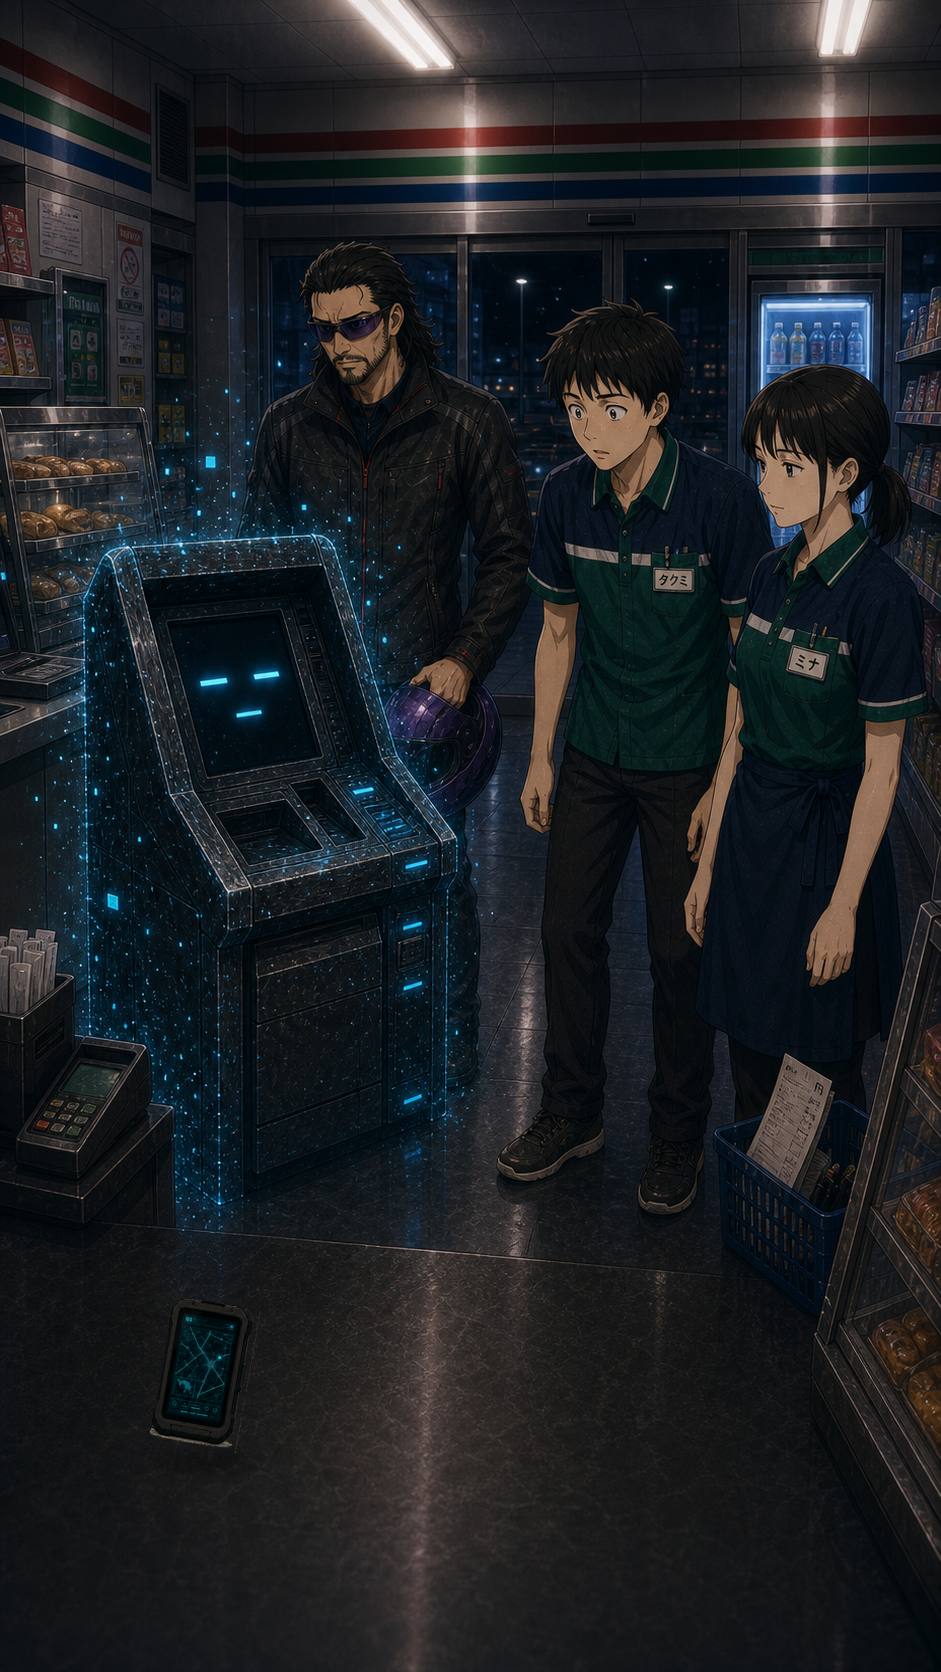
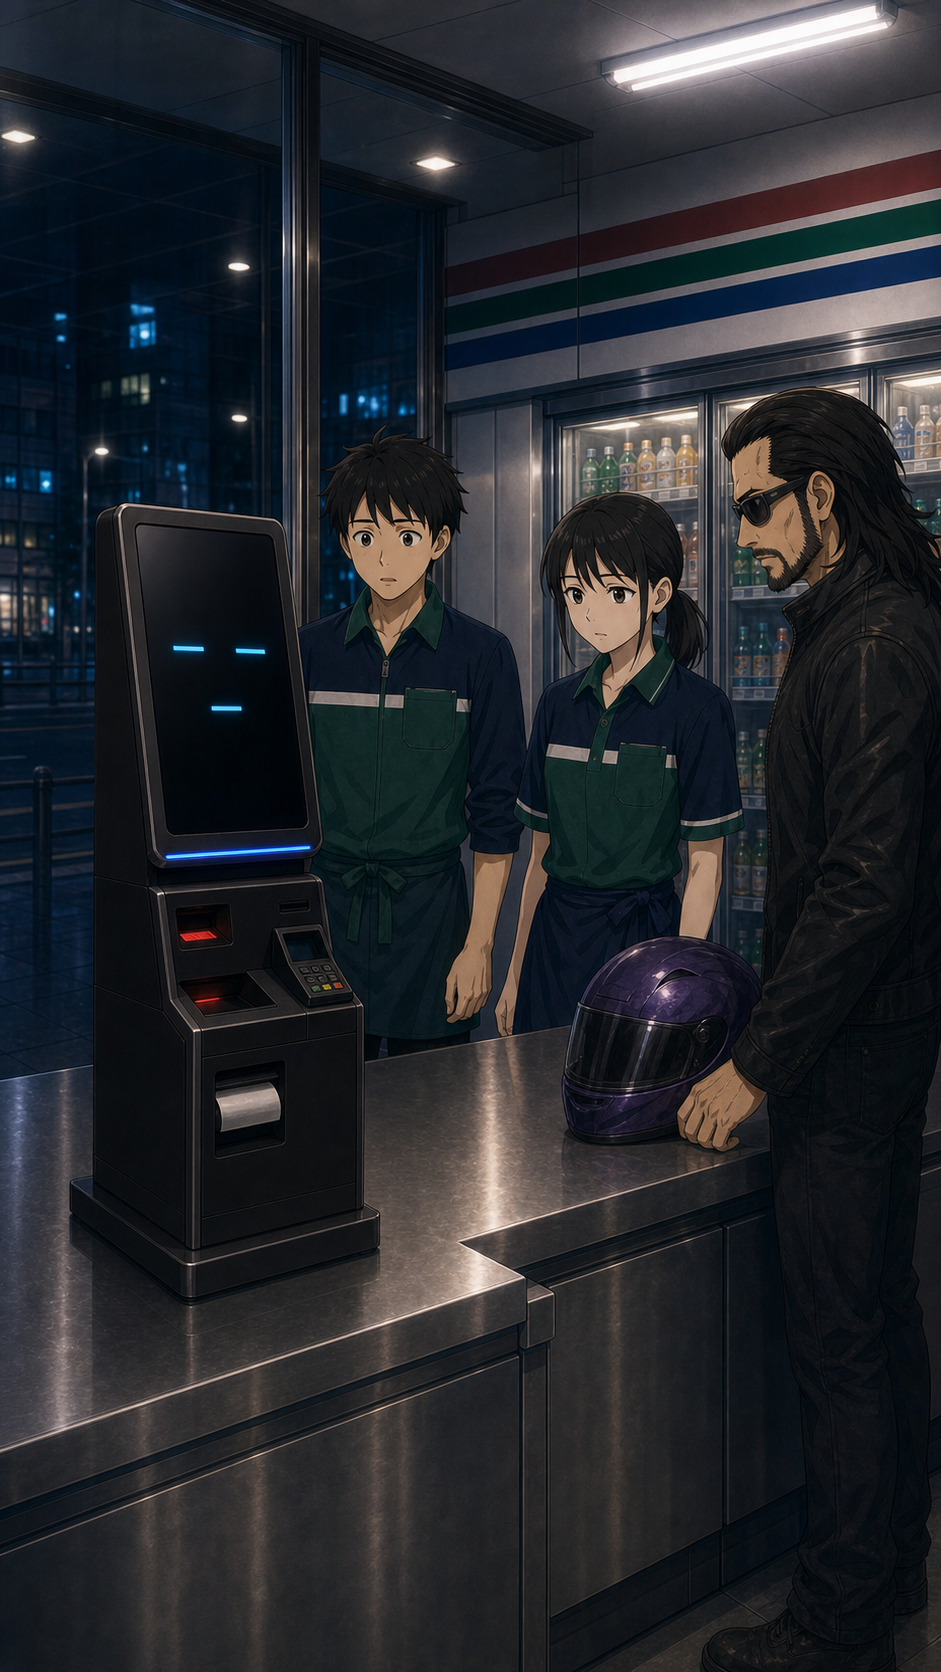
EP02 11カットの画像を差し替え(既存名へ上書き)
vc04/06/07/08/09/10/11/12/13/15/16 をユーザー編集画像(_regen)で上書き。
JSON参照は不変。ASSET_VERSIONをep02img1に更新しキャッシュ回避。

diff --git a/13th-register-kamishibai/index.html b/13th-register-kamishibai/index.html
@@ -672,7 +672,7 @@
       return `${min}:${sec}`;
     };
 
-    const ASSET_VERSION = new URLSearchParams(window.location.search).get("v") || "ep01img2";
+    const ASSET_VERSION = new URLSearchParams(window.location.search).get("v") || "ep02img1";
 
     const normalizeAssetPath = path => {
       if (!path) return FALLBACK_IMAGE;

diff --git a/site/index.html b/site/index.html
@@ -592,7 +592,7 @@
       return `${min}:${sec}`;
     };
 
-    const ASSET_VERSION = new URLSearchParams(window.location.search).get("v") || "ep01img2";
+    const ASSET_VERSION = new URLSearchParams(window.location.search).get("v") || "ep02img1";
 
     const normalizeAssetPath = path => {
       if (!path) return FALLBACK_IMAGE;
